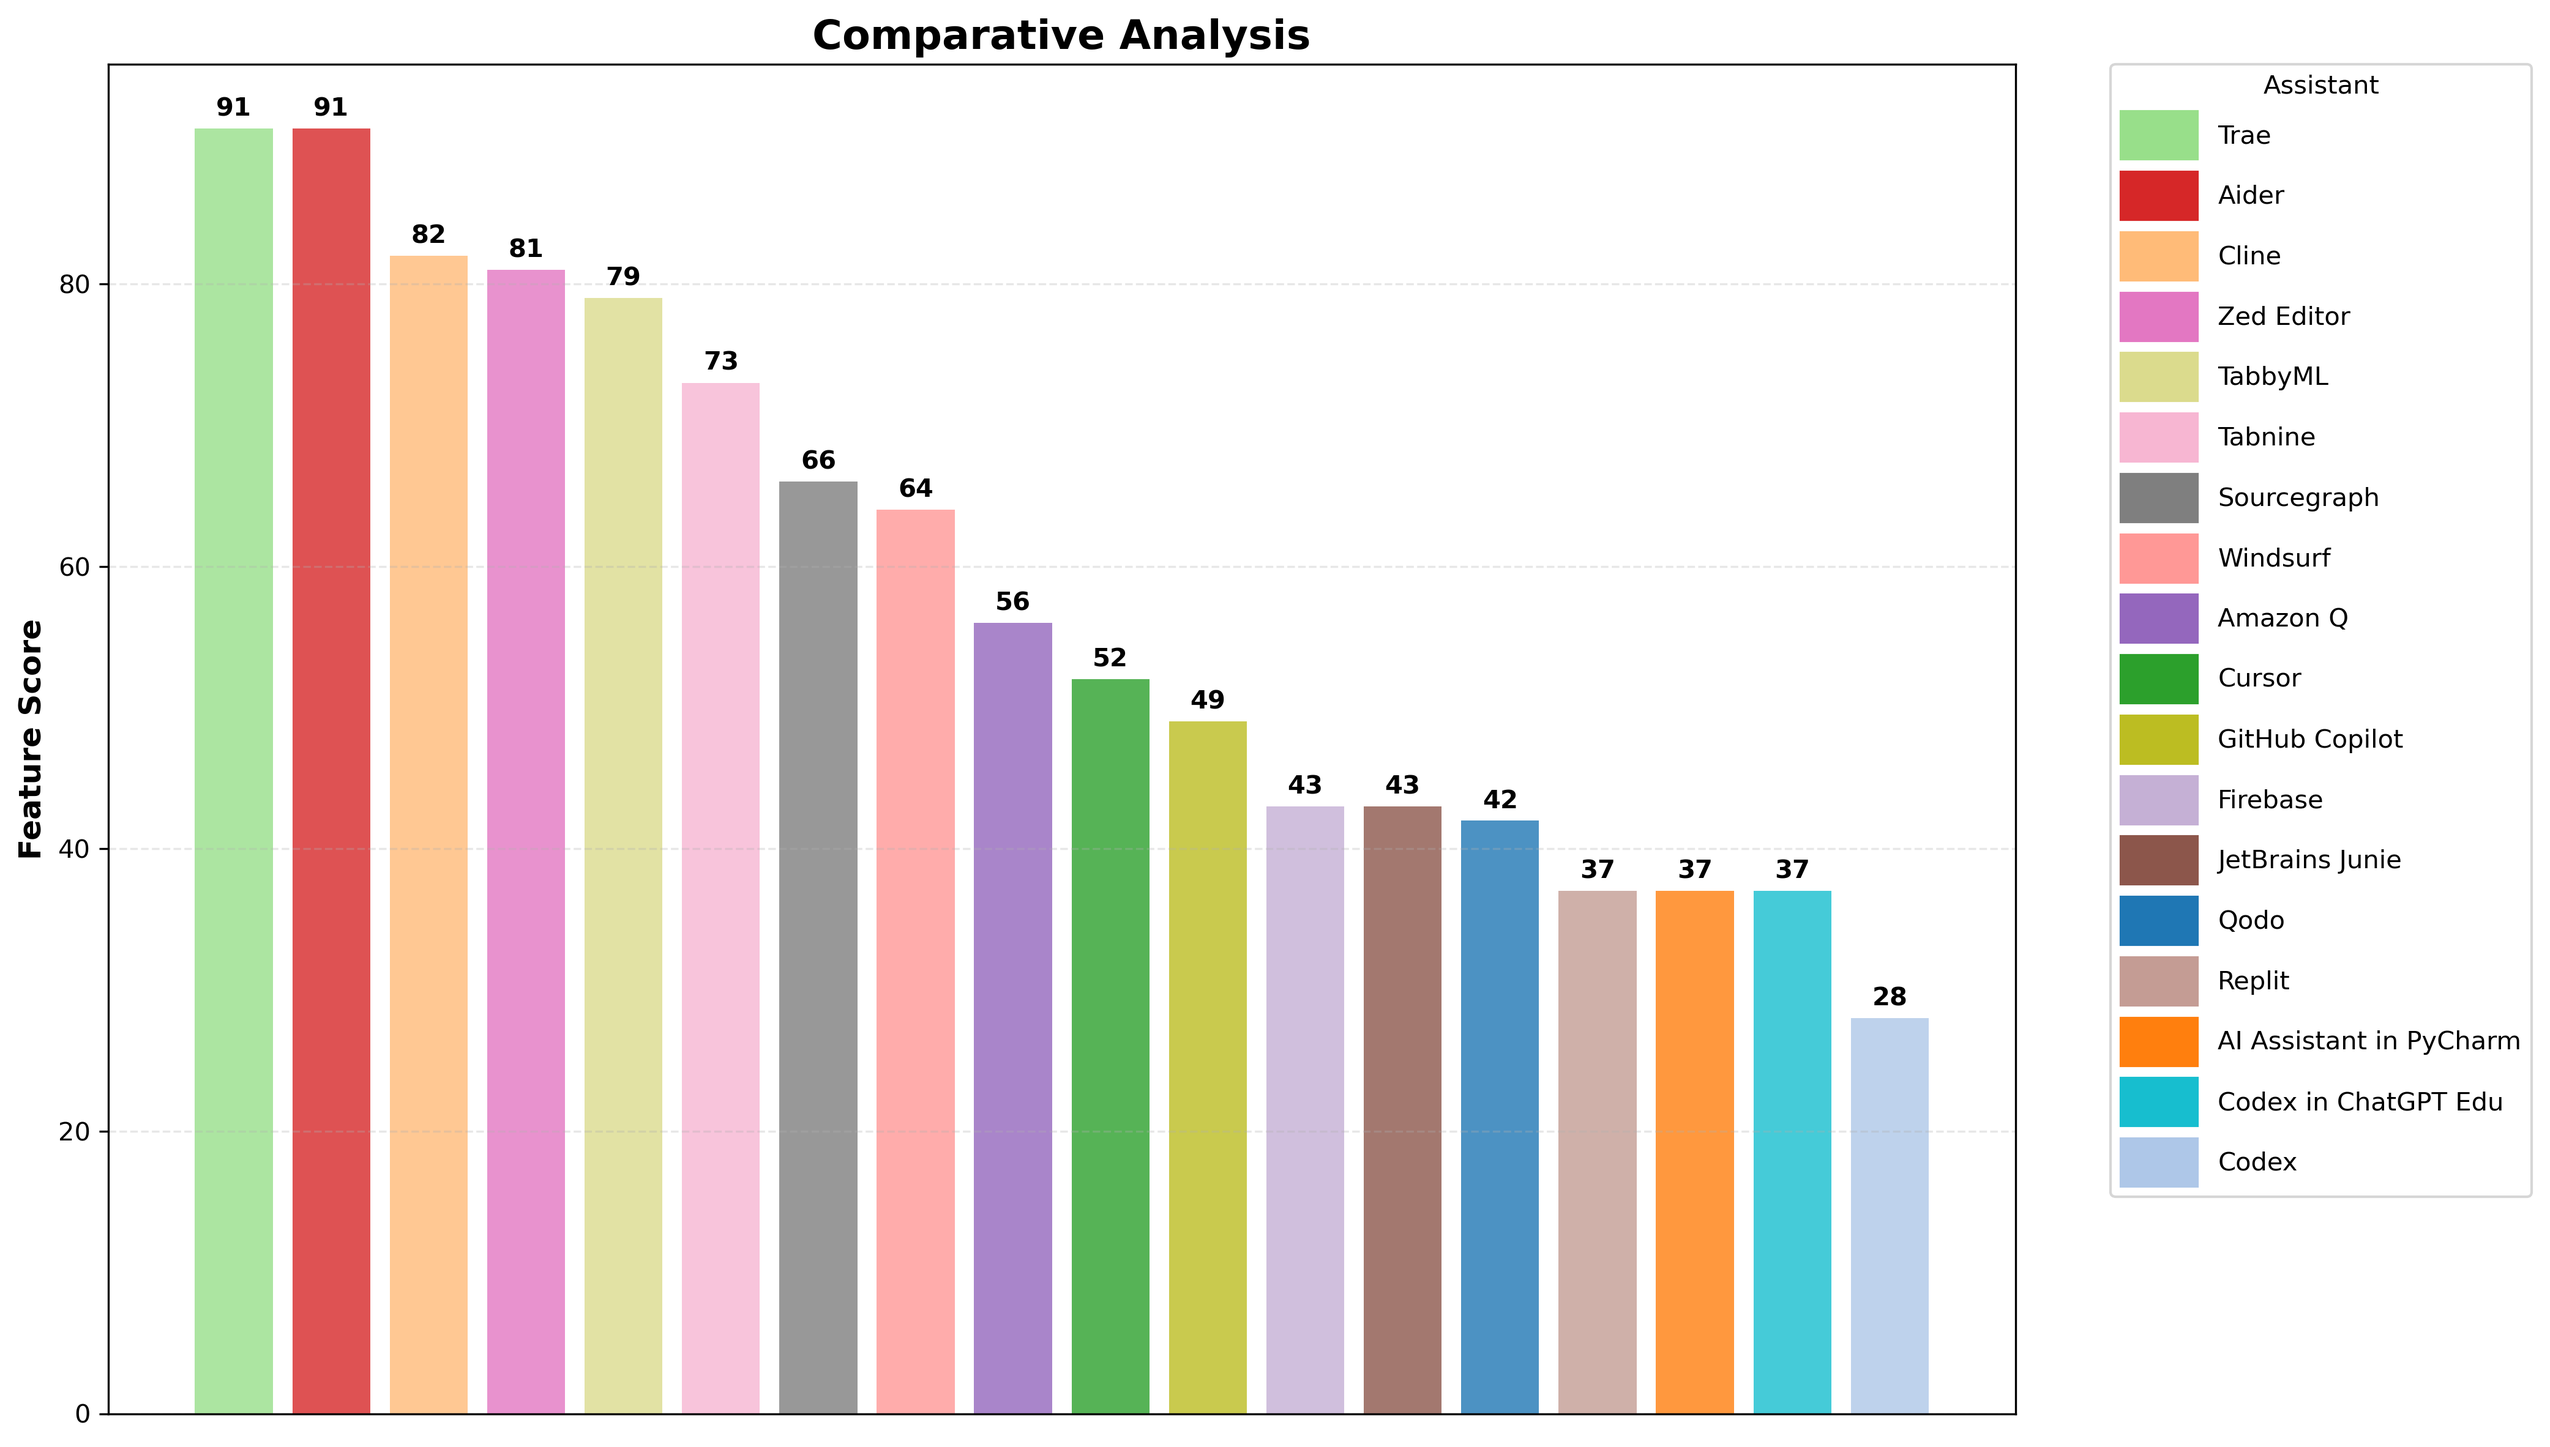
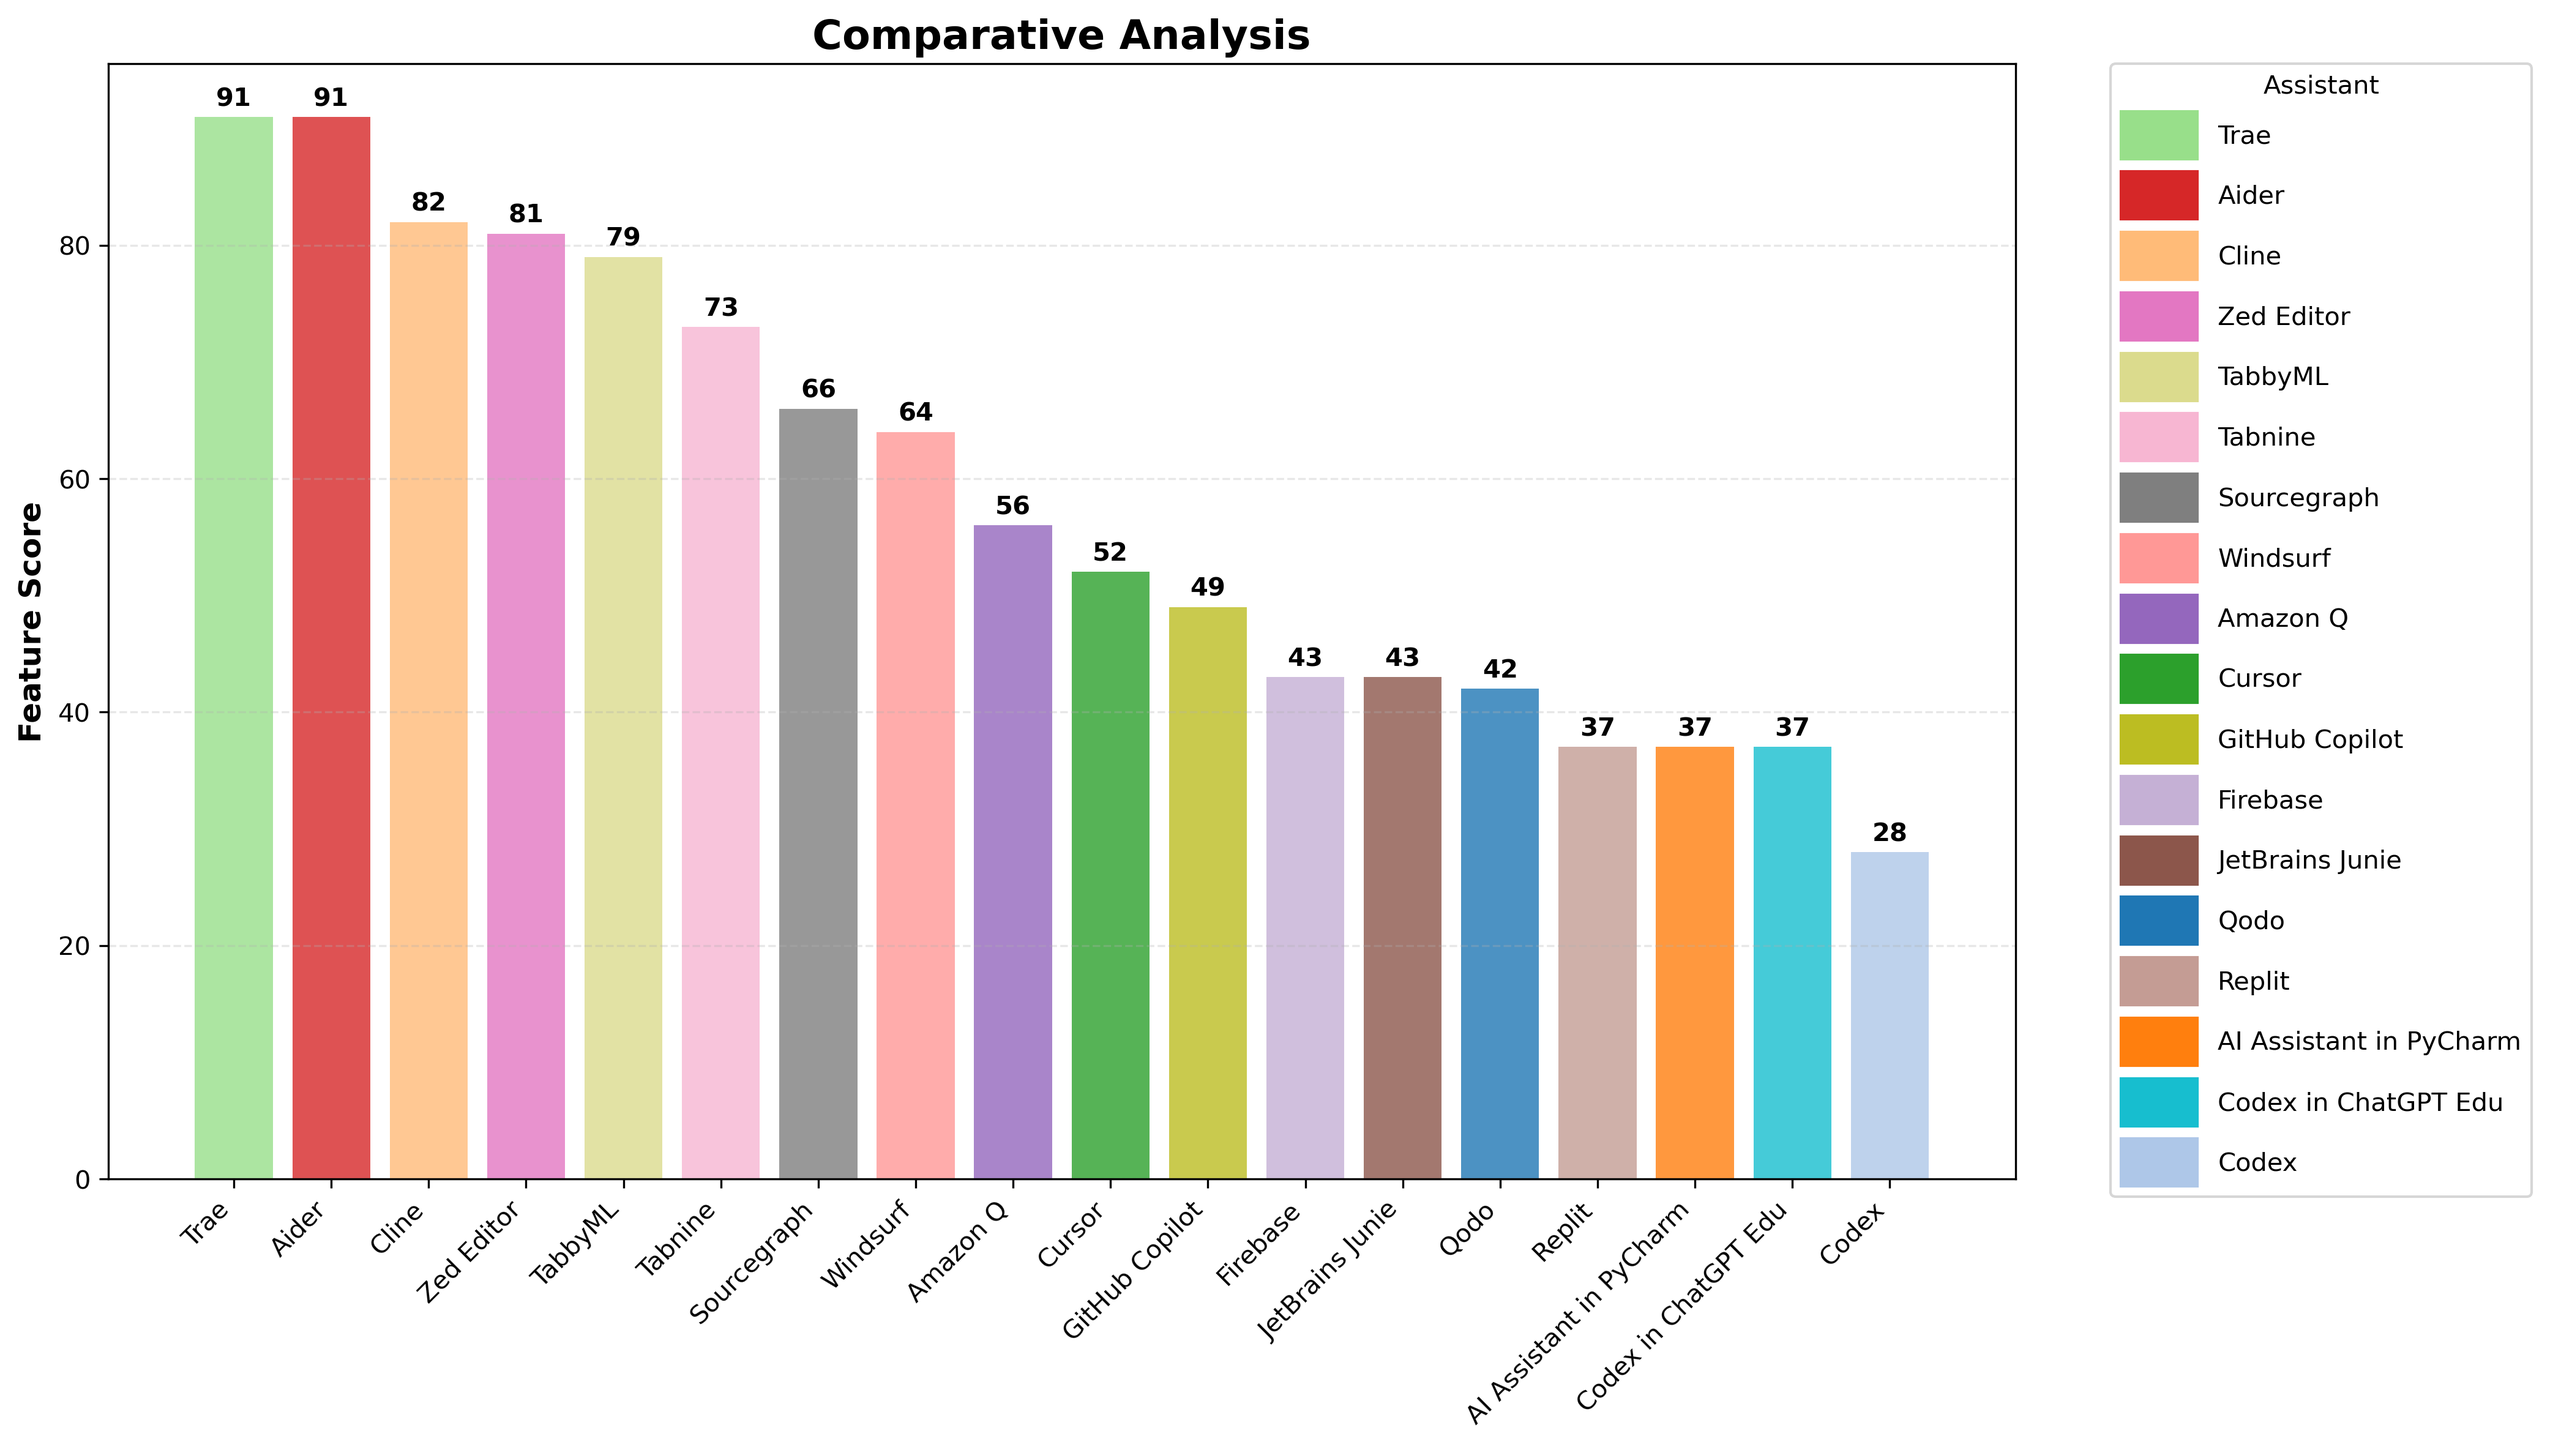
improve plots

diff --git a/generate_plot.py b/generate_plot.py
@@ -46,11 +46,35 @@ def run_benchmarks():
 def parse_scores(output):
     """Parse the benchmark output to extract scores for each LLM."""
     scores = {}
+    raw_scores = {}
     
     # Split output into lines
     lines = output.split('\n')
     
-    # Look for the final scores section
+    # First, collect raw scores from individual benchmark outputs
+    raw_score_data = {}
+    current_script = None
+    
+    for line in lines:
+        # Look for "Script Evaluation Results:" sections
+        if "Script Evaluation Results:" in line:
+            current_script = None
+            continue
+        
+        # Match pattern like "script.py    5/7     123.45"
+        match = re.match(r'(\w+\.py)\s+(\d+)/(\d+)\s+(\d+\.?\d*)', line)
+        if match:
+            script_name = match.group(1).replace('.py', '')
+            correct = int(match.group(2))
+            total = int(match.group(3))
+            
+            if script_name not in raw_score_data:
+                raw_score_data[script_name] = {'correct': 0, 'total': 0}
+            
+            raw_score_data[script_name]['correct'] += correct
+            raw_score_data[script_name]['total'] += total
+    
+    # Now parse the final adjusted scores
     in_final_scores = False
     for line in lines:
         if "FINAL SCORES (Adjusted for Speed)" in line:
@@ -65,17 +89,22 @@ def parse_scores(output):
             match = re.match(r'(\w+\.py)\s+(\d+\.?\d*)', line)
             if match:
                 llm_name = match.group(1).replace('.py', '')  # Remove .py extension
-                score = float(match.group(2))
-                # Normalize score to 0-100 scale
-                normalized_score = (score / 70) * 100  # Assuming max score is around 70
-                # Divide score by 2 if model name contains 'grok'
-                if 'grok' in llm_name.lower():
-                    normalized_score /= 2
-                scores[llm_name] = normalized_score
+                adjusted_score = float(match.group(2))
+                
+                # Get raw score from collected data
+                raw_correct = raw_score_data.get(llm_name, {}).get('correct', 0)
+                raw_total = raw_score_data.get(llm_name, {}).get('total',68)  # Default to 70 if not found
+                
+                # Normalize adjusted score to 0-100 scale, but keep raw score as actual points
+                normalized_adjusted = (adjusted_score / 68) * 100  # Maximum score is 70
+                raw_score = (raw_correct / 68) * 100  # Raw score as percentage of total possible
+                
+                scores[llm_name] = normalized_adjusted
+                raw_scores[llm_name] = raw_score
     
-    return scores
+    return scores, raw_scores
 
-def create_plot(scores):
+def create_plot(scores, raw_scores):
     """Create a bar chart for coding assistants using shared mapping and color legend. Also plot general LLMs in black and white with patterns."""
     if not scores:
         print("No scores found to plot!")
@@ -87,23 +116,45 @@ def create_plot(scores):
     sorted_scores = dict(sorted(display_scores.items(), key=lambda x: x[1], reverse=True))
     colors = [DISPLAY_TO_COLOR[name] for name in sorted_scores.keys()]
     
-    # Plot coding assistants
+    # Get corresponding raw scores (ordered by adjusted scores)
+    display_raw_scores = {TECHNICAL_TO_DISPLAY[k]: raw_scores[k] for k, v in filtered_scores.items()}
+    raw_values = [display_raw_scores[name] for name in sorted_scores.keys()]
+    
+    # Plot coding assistants with stacked bars
     plt.figure(figsize=(14, 8))
     names = list(sorted_scores.keys())
-    values = list(sorted_scores.values())
-    bars = plt.bar(names, values, color=colors)
+    adjusted_values = list(sorted_scores.values())
+    
+    # Create stacked bars: adjusted score (bottom) + penalty component (top)
+    penalty_values = [max(0, raw - adj) for raw, adj in zip(raw_values, adjusted_values)]
+    
+    # Plot adjusted score as the base (this is what we're ordering by)
+    bars_adjusted = plt.bar(names, adjusted_values, color=colors, alpha=0.7, label='Final Score')
+    
+    # Plot penalty component on top (if any)
+    if any(p > 0 for p in penalty_values):
+        bars_penalty = plt.bar(names, penalty_values, bottom=adjusted_values, 
+                              color='red', alpha=0.2, label='Raw Correctness Bonus')
+    
     plt.title('Code Evaluation', fontsize=16, fontweight='bold')
     plt.xlabel('')
     plt.ylabel('Score (0-100)', fontsize=12, fontweight='bold')
-    plt.xticks([])
+    plt.xticks(range(len(names)), names, rotation=45, ha='right')
     plt.ylim(0, 100)
     plt.grid(axis='y', alpha=0.3, linestyle='--')
-    for bar, value in zip(bars, values):
-        plt.text(bar.get_x() + bar.get_width()/2, bar.get_height() + 0.5, 
-                 f"{value:.1f}", ha='center', va='bottom', fontweight='bold')
+    
+    # Add value labels on top of bars
+    for i, (name, adj_val, raw_val) in enumerate(zip(names, adjusted_values, raw_values)):
+        plt.text(i, adj_val + 0.5, f"{adj_val:.1f}", ha='center', va='bottom', fontweight='bold')
+    
+    # Create legend for assistants
     legend_handles = [plt.Rectangle((0,0),1,1, color=DISPLAY_TO_COLOR[name]) for name in names]
-    plt.legend(legend_handles, names, title="Assistant", bbox_to_anchor=(1.05, 1), loc='upper left',
+    # Add legend entry for raw correctness bonus at the top
+    legend_handles.insert(0, plt.Rectangle((0,0),1,1, color='red', alpha=0.2))
+    legend_names = ['Code Correctness'] + names
+    plt.legend(legend_handles, legend_names, bbox_to_anchor=(1.05, 1), loc='upper left',
               handleheight=2.5, handlelength=3, borderaxespad=0.)
+    
     plt.tight_layout()
     plt.savefig('coding_assistants.png', dpi=300, bbox_inches='tight')
     plt.close()
@@ -115,32 +166,55 @@ def create_plot(scores):
         # Use pretty names
         display_general = {GENERAL_LLM_TECHNICAL_TO_DISPLAY.get(k, k): v for k, v in general_llms.items()}
         sorted_general = dict(sorted(display_general.items(), key=lambda x: x[1], reverse=True))
+        
+        # Get corresponding raw scores for general LLMs (ordered by adjusted scores)
+        display_general_raw = {GENERAL_LLM_TECHNICAL_TO_DISPLAY.get(k, k): raw_scores[k] for k, v in general_llms.items()}
+        general_raw_values = [display_general_raw[name] for name in sorted_general.keys()]
+        
         plt.figure(figsize=(14, 8))
         names = list(sorted_general.keys())
-        values = list(sorted_general.values())
+        adjusted_values = list(sorted_general.values())
+        
+        # Create stacked bars for general LLMs
+        penalty_values = [max(0, raw - adj) for raw, adj in zip(general_raw_values, adjusted_values)]
+        
         patterns = ['/', '\\', '|', '-', '+', 'x', 'o', 'O', '.', '*']
-        bars = []
+        bars_adjusted = []
+        bars_penalty = []
         legend_handles = []
-        for i, (name, value) in enumerate(zip(names, values)):
-            bar = plt.bar(name, value, color='white', edgecolor='black',
-                          hatch=patterns[i % len(patterns)])
-            bars.append(bar)
-            # Larger legend handle for better pattern visibility
+        
+        for i, (name, adj_val, raw_val) in enumerate(zip(names, adjusted_values, general_raw_values)):
+            # Plot adjusted score as the base
+            bar_adjusted = plt.bar(name, adj_val, color='white', edgecolor='black',
+                                  hatch=patterns[i % len(patterns)], alpha=0.7)
+            bars_adjusted.append(bar_adjusted)
+            
+            # Plot penalty component if any
+            penalty_val = max(0, raw_val - adj_val)
+            if penalty_val > 0:
+                bar_penalty = plt.bar(name, penalty_val, bottom=adj_val, color='red', alpha=0.2)
+                bars_penalty.append(bar_penalty)
+            
+            # Create legend handle
             legend_handles.append(
-                plt.Rectangle((0,0), 2, 1.2, facecolor='white', edgecolor='black', hatch=patterns[i % len(patterns)])
+                plt.Rectangle((0,0), 2, 1.2, facecolor='white', edgecolor='black', 
+                            hatch=patterns[i % len(patterns)])
             )
+        
         plt.title('Code Evaluation Reference (OpenRouter)', fontsize=16, fontweight='bold')
         plt.xlabel('')
         plt.ylabel('Score (0-100)', fontsize=12, fontweight='bold')
-        plt.xticks([])
+        plt.xticks(range(len(names)), names, rotation=45, ha='right')
         plt.ylim(0, 100)
         plt.grid(axis='y', alpha=0.3, linestyle='--')
-        for bar, value in zip(bars, values):
-            rect = bar[0]
-            plt.text(rect.get_x() + rect.get_width()/2, rect.get_height() + 0.5, 
-                     f"{value:.1f}", ha='center', va='bottom', fontweight='bold')
+        
+        # Add value labels
+        for i, (name, adj_val, raw_val) in enumerate(zip(names, adjusted_values, general_raw_values)):
+            plt.text(i, adj_val + 0.5, f"{adj_val:.1f}", ha='center', va='bottom', fontweight='bold')
+        
         plt.legend(
-            legend_handles, names, title="Model",
+            [plt.Rectangle((0,0),1,1, color='red', alpha=0.2)] + legend_handles, 
+            ['Code Correctness'] + names,
             bbox_to_anchor=(1.05, 1), loc='upper left',
             handleheight=2.5, handlelength=3, borderaxespad=0.
         )
@@ -163,7 +237,7 @@ def main():
     print("ANALYZING RESULTS")
     print("="*60)
     
-    scores = parse_scores(output)
+    scores, raw_scores = parse_scores(output)
     
     if scores:
         print("\nExtracted scores:")
@@ -171,7 +245,7 @@ def main():
             print(f"{llm}: {score:.2f}")
         
         print("\nGenerating plot...")
-        create_plot(scores)
+        create_plot(scores, raw_scores)
     else:
         print("No scores could be extracted from the output!")
         print("Debug: Checking if output contains expected patterns...")

diff --git a/generate_feature_plot.py b/generate_feature_plot.py
@@ -64,7 +64,7 @@ def create_feature_plot():
         plt.title('Comparative Analysis', fontsize=16, fontweight='bold')
         plt.xlabel('')
         plt.ylabel('Feature Score', fontsize=12, fontweight='bold')
-        plt.xticks([])  # Remove names from below the plot
+        plt.xticks(range(len(tools)), tools, rotation=45, ha='right')
         plt.grid(axis='y', alpha=0.3, linestyle='--')
         
         # Add value labels on top of bars
